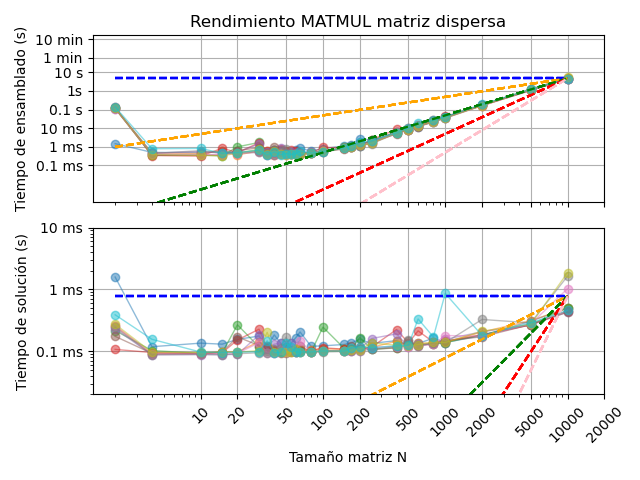
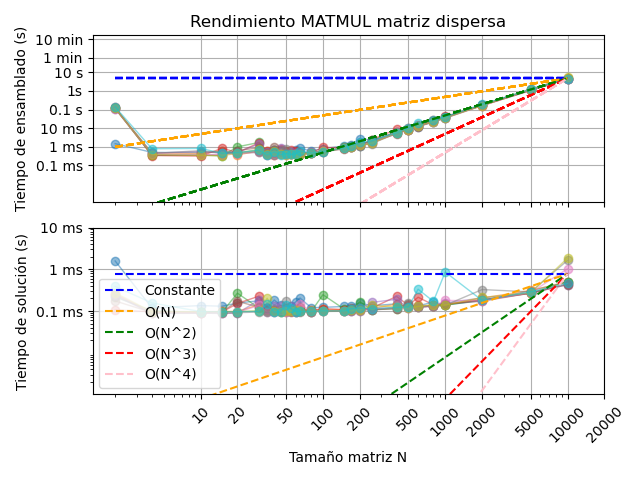
Cambio gráficos
se añadió leyenda

Changed region(s): [[0.0625, 0.5312, 0.9062, 0.8125], [0.5938, 0.7812, 0.6562, 0.8125]]

diff --git a/Gráfico matriz llena.py b/Gráfico matriz llena.py
@@ -40,10 +40,6 @@ for i in range(NCOR): #recorro la cantidad de numero de corridas
 dts_mean = mean(array(dts_last))  #Ordenes
 sol_mean = mean(array(sol_last))
 # -------------------------------------------------------------------------------------------------
-ON = Ns
-ON2 = Ns**2
-ON3 = Ns**3
-ON4 = Ns**4 
 
 plt.figure(1) #creo un grafico en blanco
 
@@ -54,12 +50,13 @@ plt.ylabel("Tiempo de ensamblado (s)") #escribo el nombre correspondiente de la 
 for l in range(NCOR): #recorro la cantidad de numero de corridas 
     dts = dts_list[l] #denomino como dts a la variable en la posicion l de la lista dts_list para graficar
     plt.loglog(Ns, dts,'-o',linewidth=1,alpha=0.5) #grafico bilogaritmicamente N vs tiempo
-    plt.loglog(Ns,[dts_mean]*len(Ns),'--', color = 'blue') # O(cte)
-    plt.loglog(Ns,(dts_mean/Ns[-1])*(Ns),'--', color = 'orange') # O(N)
-    plt.loglog(Ns,(dts_mean/Ns[-1]**2)*(Ns**2),'--', color = 'green') # O(N2)
-    plt.loglog(Ns,(dts_mean/Ns[-1]**3)*(Ns**3),'--', color = 'red') # O(N3)
-    plt.loglog(Ns,(dts_mean/Ns[-1]**4)*(Ns**4),'--', color = 'pink') # O(N4)
-    
+
+plt.loglog(Ns,[dts_mean]*len(Ns),'--', color = 'blue') # O(cte)
+plt.loglog(Ns,(dts_mean/Ns[-1])*(Ns),'--', color = 'orange') # O(N)
+plt.loglog(Ns,(dts_mean/Ns[-1]**2)*(Ns**2),'--', color = 'green') # O(N2)
+plt.loglog(Ns,(dts_mean/Ns[-1]**3)*(Ns**3),'--', color = 'red') # O(N3)
+plt.loglog(Ns,(dts_mean/Ns[-1]**4)*(Ns**4),'--', color = 'pink') # O(N4)
+
 y1_vals = [0.1e-3, 1e-3, 1e-2, 0.1, 1, 10, 60, 60*10] #valores de unidades de tiempo en eje y a escribir en este
 y1_txt = ['0.1 ms',"1 ms","10 ms","0.1 s","1s","10 s","1 min","10 min"] #unidades de tiempo en eje y
 plt.yticks(y1_vals,labels=y1_txt) #uso "ticks" para mostrar valores utilizados para mostrar ptos especificos en el grafico
@@ -67,6 +64,7 @@ x1_vals = [10, 20, 50, 100, 200, 500, 1000, 2000, 5000, 10000, 20000] #valores a
 x1_txt = [""]*len(x1_vals) #agrego nada (literalmente) porque no quiero labels (texto en eje x)
 plt.xticks(x1_vals,x1_txt) #nuevamente uso "ticks" para mostrar los valores especificados en el grafico
 plt.ylim(0.1e-3/100,1000)
+plt.legend()
 plt.grid() #hago la malla del grafico
 
 plt.subplot(2,1,2) #creo 2 gráficos pero ahora trabajo en el segundo
@@ -76,11 +74,12 @@ plt.xlabel("Tamaño matriz N") #nombre asignado al eje x
 for m in range(NCOR): #recorro la cantidad de numero de corridas 
     sol = sol_list[m] #denomino como mems a la variable en la posicion m de la lista mems_list para graficar
     plt.loglog(Ns,sol,'-o',linewidth=1,alpha=0.5) #grafico bilogaritmicamente N vs memoria
-    plt.loglog(Ns,[sol_mean]*len(Ns),'--', color = 'blue') # O(cte)
-    plt.loglog(Ns,(sol_mean/Ns[-1])*(Ns),'--', color = 'orange') # O(N)
-    plt.loglog(Ns,(sol_mean/Ns[-1]**2)*(Ns**2),'--', color = 'green') # O(N2)
-    plt.loglog(Ns,(sol_mean/Ns[-1]**3)*(Ns**3),'--', color = 'red') # O(N3)
-    plt.loglog(Ns,(sol_mean/Ns[-1]**4)*(Ns**4),'--', color = 'pink') # O(N4)
+    
+plt.loglog(Ns,[sol_mean]*len(Ns),'--', color = 'blue', label='Constante') # O(cte)
+plt.loglog(Ns,(sol_mean/Ns[-1])*(Ns),'--', color = 'orange', label='O(N)') # O(N)
+plt.loglog(Ns,(sol_mean/Ns[-1]**2)*(Ns**2),'--', color = 'green', label='O(N^2)') # O(N2)
+plt.loglog(Ns,(sol_mean/Ns[-1]**3)*(Ns**3),'--', color = 'red', label='O(N^3)') # O(N3)
+plt.loglog(Ns,(sol_mean/Ns[-1]**4)*(Ns**4),'--', color = 'pink', label='O(N^4)') # O(N4)
 
 y2_vals = [0.1e-3, 1e-3, 1e-2, 0.1, 1, 10, 60, 60*10] #valores de unidades de memoria en eje y
 y2_txt = ['0.1 ms',"1 ms","10 ms","0.1 s","1s","10 s","1 min","10 min"] #unidades de memoria en eje y del segundo grafico
@@ -89,6 +88,8 @@ x2_vals = [10, 20, 50, 100, 200, 500, 1000, 2000, 5000, 10000, 20000] #valores u
 x2_txt = ["10","20","50","100","200","500","1000","2000","5000","10000","20000"]
 plt.xticks(x2_vals,x2_txt,rotation=45) #roto los valores establecidos anteriormente en 45°
 plt.ylim(0.1e-3/100,1000)
+
+plt.legend()
 plt.grid() #ploteo la malla del segundo grafico
 
 plt.tight_layout() # se ajusta el grafico para que quede mas bonito y ordenado

diff --git a/Gráfico matriz dispersa.py b/Gráfico matriz dispersa.py
@@ -76,11 +76,12 @@ plt.xlabel("Tamaño matriz N") #nombre asignado al eje x
 for m in range(NCOR): #recorro la cantidad de numero de corridas 
     sol = sol_list[m] #denomino como mems a la variable en la posicion m de la lista mems_list para graficar
     plt.loglog(Ns,sol,'-o',linewidth=1,alpha=0.5) #grafico bilogaritmicamente N vs memoria
-    plt.loglog(Ns,[sol_mean]*len(Ns),'--', color = 'blue') # O(cte)
-    plt.loglog(Ns,(sol_mean/Ns[-1])*(Ns),'--', color = 'orange') # O(N)
-    plt.loglog(Ns,(sol_mean/Ns[-1]**2)*(Ns**2),'--', color = 'green') # O(N2)
-    plt.loglog(Ns,(sol_mean/Ns[-1]**3)*(Ns**3),'--', color = 'red') # O(N3)
-    plt.loglog(Ns,(sol_mean/Ns[-1]**4)*(Ns**4),'--', color = 'pink') # O(N4)
+
+plt.loglog(Ns,[sol_mean]*len(Ns),'--', color = 'blue', label='Constante') # O(cte)
+plt.loglog(Ns,(sol_mean/Ns[-1])*(Ns),'--', color = 'orange', label='O(N)') # O(N)
+plt.loglog(Ns,(sol_mean/Ns[-1]**2)*(Ns**2),'--', color = 'green', label='O(N^2)') # O(N2)
+plt.loglog(Ns,(sol_mean/Ns[-1]**3)*(Ns**3),'--', color = 'red', label='O(N^3)') # O(N3)
+plt.loglog(Ns,(sol_mean/Ns[-1]**4)*(Ns**4),'--', color = 'pink', label='O(N^4)') # O(N4)
 
 y2_vals = [0.1e-3, 1e-3, 1e-2, 0.1, 1, 10, 60, 60*10] #valores de unidades de memoria en eje y
 y2_txt = ['0.1 ms',"1 ms","10 ms","0.1 s","1s","10 s","1 min","10 min"] #unidades de memoria en eje y del segundo grafico
@@ -88,7 +89,8 @@ plt.yticks(y2_vals,labels=y2_txt) #uso "ticks" para mostrar valores utilizados p
 x2_vals = [10, 20, 50, 100, 200, 500, 1000, 2000, 5000, 10000, 20000] #valores utilizados como N (tamaño matriz)
 x2_txt = ["10","20","50","100","200","500","1000","2000","5000","10000","20000"]
 plt.xticks(x2_vals,x2_txt,rotation=45) #roto los valores establecidos anteriormente en 45°
-plt.ylim(0.1e-3/5,0.01)
+plt.ylim(0.1e-3/100,0.01)
+plt.legend()
 plt.grid() #ploteo la malla del segundo grafico
 
 plt.tight_layout() # se ajusta el grafico para que quede mas bonito y ordenado
